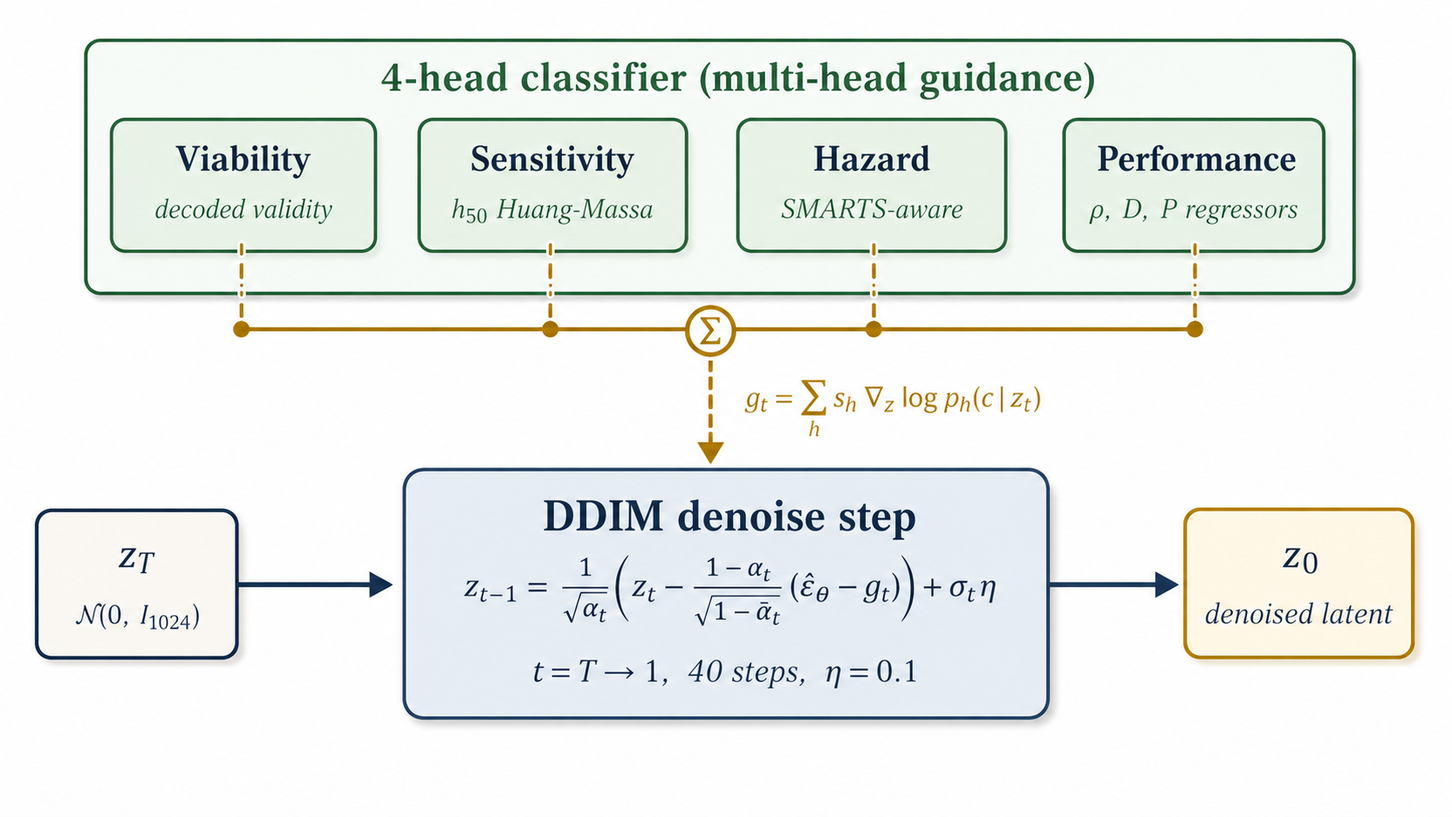
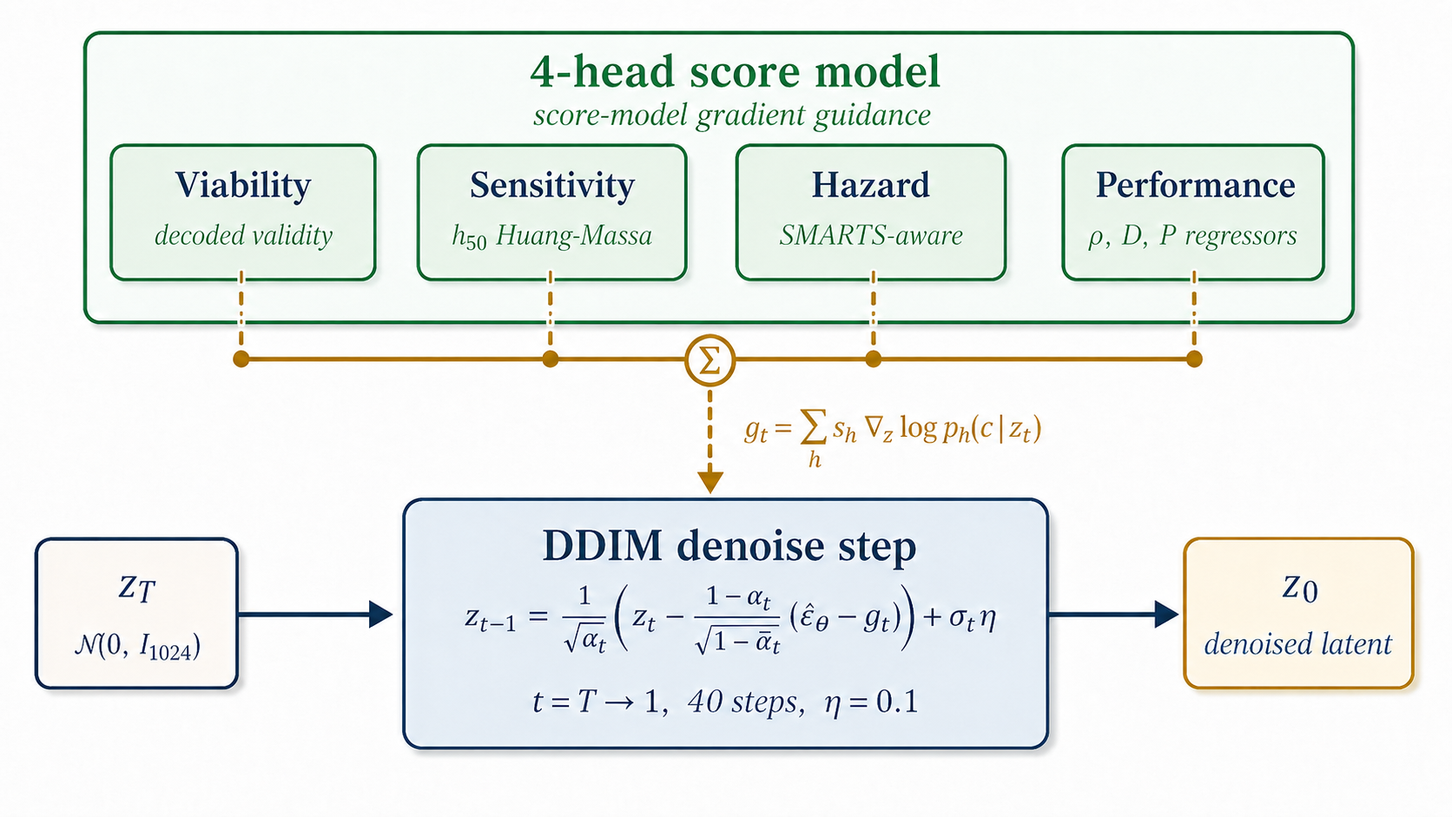
Refresh 4(c) image from updated asset; drop all em-dashes from paper
assets/4C_classifier_guide.png updated by author (md5
67c480dc101995c255966b1bf059d562, 1.4 MB); copied to docs/paper/figs/
as fig4c_sampling_guidance.png (and fig4b_sampling.png back-compat alias).
MD5 verified byte-identity.

Em-dash audit (per global writing-style rule: never use em-dashes):
- 27 occurrences of &mdash; removed across docs/paper/index.html.
- Replacement strategy:
  * 6 table cells <td>&mdash;</td> in Table D.2 anchor rows (no raw-DFT
    value) -> <td>n/a</td>.
  * 1 parenthetical em-dash pair (Fig 4(e) takeaway: "...by design,
    different inputs, architectures, and label sources, so...") -> commas.
  * 20 definition-style "Term &mdash; description" (Stage 1-4 headings
    in Pipeline-at-a-glance callout, Fig 4(e) head-source bullets,
    section explanations) -> colon ":".
- Residual check: 0 raw em-dash chars, 0 &mdash; entities, 0 &#8212; entities.

Changed region(s): [[0.0311, 0.0308, 0.933, 0.9245], [0.7153, 0.6164, 0.9952, 0.8629], [0.0, 0.6164, 0.2799, 0.8629]]

diff --git a/docs/paper/index.html b/docs/paper/index.html
@@ -209,7 +209,7 @@ Classifier-free guidance avoids the separately-trained property predictor requir
 
 <figure>
   <img src="figs/fig4a_data_prep.png" alt="DGLD LIMO VAE fine-tuning loop" loading="lazy" style="max-width:900px; width:100%; height:auto; display:block; margin:0 auto;">
-  <figcaption><strong>Figure 4(a).</strong> <em>LIMO VAE fine-tuning (run once; encoder frozen after this stage).</em> SMILES from the 326k energetic corpus are tokenised to SELFIES and pushed through a non-autoregressive VAE: the encoder produces a Gaussian posterior over a 1024-d latent \(z\); reparametrised samples \(z = \mu + \sigma\cdot\varepsilon\) feed the decoder, which predicts the SELFIES sequence in parallel. The training objective is the standard ELBO \(\mathcal{L} = \mathcal{L}_{\mathrm{recon}} + \beta\,\mathcal{L}_{\mathrm{KL}}\) with \(\beta = 0.01\) and free-bits disabled. <strong>Property labels do not enter this loss &mdash; LIMO is property-agnostic.</strong> The training corpus is sampled uniformly over its 326k SMILES at this stage; the asymmetric high-tail oversampling (Tier-A/B rows above the 90th-percentile detonation-velocity distribution oversampled 5&times;&ndash;10&times;, &sect;3.2) is applied <em>downstream</em> at denoiser training (Fig&nbsp;4(b)), not here, because LIMO's reconstruction loss has no notion of detonation velocity. After \(\sim\)8.5k steps the encoder is frozen; the cached deterministic mean \(\mu\) is the \(z_0\) consumed by 4(b) (denoiser training) and 4(e) (score-model training).</figcaption>
+  <figcaption><strong>Figure 4(a).</strong> <em>LIMO VAE fine-tuning (run once; encoder frozen after this stage).</em> SMILES from the 326k energetic corpus are tokenised to SELFIES and pushed through a non-autoregressive VAE: the encoder produces a Gaussian posterior over a 1024-d latent \(z\); reparametrised samples \(z = \mu + \sigma\cdot\varepsilon\) feed the decoder, which predicts the SELFIES sequence in parallel. The training objective is the standard ELBO \(\mathcal{L} = \mathcal{L}_{\mathrm{recon}} + \beta\,\mathcal{L}_{\mathrm{KL}}\) with \(\beta = 0.01\) and free-bits disabled. <strong>Property labels do not enter this loss: LIMO is property-agnostic.</strong> The training corpus is sampled uniformly over its 326k SMILES at this stage; the asymmetric high-tail oversampling (Tier-A/B rows above the 90th-percentile detonation-velocity distribution oversampled 5&times;&ndash;10&times;, &sect;3.2) is applied <em>downstream</em> at denoiser training (Fig&nbsp;4(b)), not here, because LIMO's reconstruction loss has no notion of detonation velocity. After \(\sim\)8.5k steps the encoder is frozen; the cached deterministic mean \(\mu\) is the \(z_0\) consumed by 4(b) (denoiser training) and 4(e) (score-model training).</figcaption>
 </figure>
 
 <figure>
@@ -229,7 +229,7 @@ Classifier-free guidance avoids the separately-trained property predictor requir
 
 <figure id="fig-4e">
   <img src="figs/fig4e_head_training.png" alt="DGLD multi-head score-model training: shared FiLM-MLP trunk, four heads" loading="lazy" style="max-width:1100px; width:100%; height:auto; display:block; margin:0 auto;">
-  <figcaption><strong>Figure 4(e).</strong> <em>Multi-head score-model training (offline, training-time).</em> The four guidance heads consumed by 4(c) at sample time are <strong>four independent models</strong>, each trained separately with its own architecture, inputs, and labels: <strong>Viability</strong> &mdash; Random Forest on Morgan FP&nbsp;+ RDKit descriptors, trained to discriminate the 66&nbsp;k labelled energetic compounds from 80&nbsp;k random ZINC samples (validation AUC&nbsp;=&nbsp;0.9986); <strong>Sensitivity</strong> (\(h_{50}\)) &mdash; MLP score model on cached LIMO latents \(z\), trained on Politzer&ndash;Murray BDE chemotype-class labels (Huang &amp; Massa <a class="cite" href="#ref-huang2021applying">[huang2021]</a>); <strong>Hazard</strong> &mdash; MLP head on \(z\), trained on chemist-curated SMARTS&nbsp;+ Bruns&ndash;Watson demerit labels; <strong>Performance</strong> &mdash; 3D-CNN smoke-model ensemble on conformer voxel grids, 8 outputs (\(\rho, D, P, T, E, V\), HOF, BDE), 5-fold CV \(R^2 = 0.84\)&ndash;\(0.92\). At sample time their gradients combine into a single guidance bus consumed by 4(c). <em><strong>Takeaway:</strong> the four heads are heterogeneous by design &mdash; different inputs, architectures, and label sources &mdash; so each axis carries an independent signal at sample-time guidance.</em></figcaption>
+  <figcaption><strong>Figure 4(e).</strong> <em>Multi-head score-model training (offline, training-time).</em> The four guidance heads consumed by 4(c) at sample time are <strong>four independent models</strong>, each trained separately with its own architecture, inputs, and labels: <strong>Viability</strong>: Random Forest on Morgan FP&nbsp;+ RDKit descriptors, trained to discriminate the 66&nbsp;k labelled energetic compounds from 80&nbsp;k random ZINC samples (validation AUC&nbsp;=&nbsp;0.9986); <strong>Sensitivity</strong> (\(h_{50}\)): MLP score model on cached LIMO latents \(z\), trained on Politzer&ndash;Murray BDE chemotype-class labels (Huang &amp; Massa <a class="cite" href="#ref-huang2021applying">[huang2021]</a>); <strong>Hazard</strong>: MLP head on \(z\), trained on chemist-curated SMARTS&nbsp;+ Bruns&ndash;Watson demerit labels; <strong>Performance</strong>: 3D-CNN smoke-model ensemble on conformer voxel grids, 8 outputs (\(\rho, D, P, T, E, V\), HOF, BDE), 5-fold CV \(R^2 = 0.84\)&ndash;\(0.92\). At sample time their gradients combine into a single guidance bus consumed by 4(c). <em><strong>Takeaway:</strong> the four heads are heterogeneous by design , different inputs, architectures, and label sources , so each axis carries an independent signal at sample-time guidance.</em></figcaption>
 </figure>
 
 <h3>4.1&nbsp;LIMO fine-tuning</h3>
@@ -284,12 +284,12 @@ where \(\epsilon_\theta^{\text{cfg}}\) is the standard classifier-free-guidance 
 
 <p><strong>Configuration caveat for small-step latent diffusion.</strong> The standard image-domain classifier-guidance recipe combines an alpha-anneal \(\text{anneal}(t)=\max(0, 1-\sigma_t/\sigma_{\max})\) with a tight per-row gradient-norm clamp at 5.0. In our small-step (\(n=40\)), frozen-decoder regime this zeros the gradient at high noise levels and silently mutes the guidance signal so completely that all per-head scale settings produce bit-identical SMILES. Disabling the anneal (\(\sigma_{\max}\!=\!0\)) restores per-head steering; raising the clamp is decorative once the anneal is off (§5.3.2). The four-test diagnostic protocol that surfaced the bug is in <a href="#sec-app">Appendix&nbsp;E.5</a>. The hard-negative augmentation recipe (918 mined cheats encoded as viab=0 latents), the literature-grounded sensitivity head (Huang &amp; Massa h<sub>50</sub>), and the optional per-head gradient-norm unit rebalancing are documented in <a href="#sec-app">Appendix&nbsp;C.1&ndash;C.3</a>.</p>
 
-<h3>4.5&nbsp;Stages 1&ndash;2 &mdash; SMARTS gate + Pareto reranker</h3>
+<h3>4.5&nbsp;Stages 1&ndash;2: SMARTS gate + Pareto reranker</h3>
 <p>Each pool is canonicalised, deduplicated, and stripped of charged species and over-large molecules. <strong>Stage&nbsp;1 (SMARTS gate):</strong> a chemist-curated SMARTS catalog removes radicals, sulphur and halogens, mixed valence states, and other red flags; surviving rows are scored by the 3D-CNN smoke ensemble (8 outputs: density, det-velocity, det-pressure, det-temperature, det-energy, det-volume, HOF, BDE). SA <a class="cite" href="#ref-ertl2009sa">[19]</a> and SCScore <a class="cite" href="#ref-coley2018scscore">[20]</a> are computed and capped at 5.0 and 3.5 respectively. <em>Caveat (drug-like provenance):</em> SA and SCScore are trained on drug-like reaction corpora (Reaxys, pharma chemistry); they penalise uncommon ring fusions and rare fragments, including some well-precedented in energetic-materials synthesis (CL-20-class polyaza-cages, hexanitrobenzene). The bias is acceptable for the present sub-CL-20 scaffold targets; an energetic-domain accessibility metric (e.g.\ a classifier trained on published energetic syntheses) would tighten the filter for more complex scaffolds. Tanimoto similarity to the nearest training-set neighbour is required to lie within \([0.20, 0.55]\): close enough to be plausible, far enough to be novel. The SMARTS gate has two interchangeable backends (Appendix E.1).</p>
 
 <p><strong>Hard filters.</strong> Single-objective composite scoring is unreliable for energetic-materials generation because the predictor can be exploited by candidates whose predicted properties exceed the training-distribution support. We therefore apply a gated, multi-objective reranker on the candidate pool before reporting leads. Hard filters reject (i) gem-tetranitro and other model-cheat SMARTS patterns, (ii) MW &lt; 130&nbsp;Da, (iii) nitro/heavy-atom ratio &gt; 0.42, (iv) oxygen balance &gt; +25&nbsp;%, (v) net non-zero charge, and (vi) ≥ 3 nitro groups on a one- or two-carbon skeleton.</p>
 
-<p><strong>Stage&nbsp;2 (Pareto reranker) &mdash; composite score.</strong> Surviving candidates are scored by
+<p><strong>Stage&nbsp;2 (Pareto reranker): composite score.</strong> Surviving candidates are scored by
 $$s(x) \;=\; \sum_{k\in\{\rho,\,\mathrm{HOF},\,D,\,P\}} \alpha_k \cdot \frac{|\hat y_k(x) - y_k^*|}{\sigma_k},$$
 where \(y_k^*\) is the design target and \(\sigma_k\) is the per-property training standard deviation. Lower is better. We additionally use a Pareto reranker multi-objective form
 $$S(x) \;=\; 0.45\, S_{\text{perf}}^{\text{band}}(x) \;+\; 0.20\, S_{\text{viab}}(x) \;+\; 0.15\, S_{\text{novel}}(x) \;+\; 0.20\,\big(1-S_{\text{sens}}(x)\big) \;-\; 0.10\, S_{\text{alerts}}(x),$$
@@ -300,7 +300,7 @@ where \(S_{\text{perf}}^{\text{band}}\) is a saturating banded ramp on each prop
 <!-- ─────────────────────────── 5. Experiments ─────────────────────────── -->
 <h2 id="sec-exp">5.&nbsp;Experiments</h2>
 
-<aside style="background:#f6f3ed; border-left:4px solid #b88a25; padding:0.7em 1em; margin:1em 0;"><strong>Pipeline at a glance.</strong> Each generated SMILES flows through a four-stage pipeline. <strong>Stage&nbsp;1 &mdash; SMARTS gate</strong> (rules-based, &sect;4.5): hard SMARTS rejects + numeric caps (SA, SC, MW, oxygen balance, charge, Tanimoto window). <strong>Stage&nbsp;2 &mdash; Pareto reranker</strong> (multi-objective composite, &sect;4.5): perf-gated, scaffold-aware composite \(S(x)\) over (perf, viab, novel, sens, alerts), Pareto front tie-broken by composite. <strong>Stage&nbsp;3 &mdash; Semi-empirical triage</strong> (xTB GFN2, &sect;5.4): geometry survival + HOMO&ndash;LUMO gap \(\ge\) 1.5&nbsp;eV. <strong>Stage&nbsp;4 &mdash; First-principles audit</strong> (DFT, &sect;5.5): B3LYP/6-31G(d) opt + \(\omega\)B97X-D3BJ/def2-TZVP SP, calibrated against the six-anchor set (RDX, TATB, HMX, PETN, FOX-7, NTO; &sect;5.5 + Appendix&nbsp;D.4). Stages 1&ndash;2 run on every candidate; Stages 3&ndash;4 run only on the merged top-100.</aside>
+<aside style="background:#f6f3ed; border-left:4px solid #b88a25; padding:0.7em 1em; margin:1em 0;"><strong>Pipeline at a glance.</strong> Each generated SMILES flows through a four-stage pipeline. <strong>Stage&nbsp;1: SMARTS gate</strong> (rules-based, &sect;4.5): hard SMARTS rejects + numeric caps (SA, SC, MW, oxygen balance, charge, Tanimoto window). <strong>Stage&nbsp;2: Pareto reranker</strong> (multi-objective composite, &sect;4.5): perf-gated, scaffold-aware composite \(S(x)\) over (perf, viab, novel, sens, alerts), Pareto front tie-broken by composite. <strong>Stage&nbsp;3: Semi-empirical triage</strong> (xTB GFN2, &sect;5.4): geometry survival + HOMO&ndash;LUMO gap \(\ge\) 1.5&nbsp;eV. <strong>Stage&nbsp;4: First-principles audit</strong> (DFT, &sect;5.5): B3LYP/6-31G(d) opt + \(\omega\)B97X-D3BJ/def2-TZVP SP, calibrated against the six-anchor set (RDX, TATB, HMX, PETN, FOX-7, NTO; &sect;5.5 + Appendix&nbsp;D.4). Stages 1&ndash;2 run on every candidate; Stages 3&ndash;4 run only on the merged top-100.</aside>
 
 <p>The experimental section answers four questions. <em>(i)&nbsp;Does the pipeline produce candidates at all?</em> §5.1&ndash;§5.2 measure the effect of pool size on yield and report the top-ranked candidates returned by the gated reranker. <em>(ii)&nbsp;Does the model generalise beyond the training distribution, and how does it compare to no-diffusion baselines?</em> §5.3 reports the novelty stratification, the four-condition guidance head-to-head, and a 3-seed head-to-head against a SMILES-LSTM and MolMIM 70M. <em>(iii)&nbsp;Are the candidates physically plausible?</em> §5.4 (semi-empirical xTB stability and pool-size dependence of the stability rate), §5.5 (first-principles audit (DFT) of the top leads with B3LYP/6-31G(d) opt and \(\omega\)B97X-D3BJ/def2-TZVP single-point), and §5.6 (retrosynthetic route search with AiZynthFinder) climb the validation ladder from heuristic filters through quantum chemistry to literature-anchored synthesis plausibility. <em>(iv)&nbsp;Do the architectural choices matter?</em> CFG-scale ablation, per-head guidance-scale grid, hard-negative augmentation of the viability head, reproducibility across pool sizes, MOSES-style distribution-learning metrics, and hazard-head post-hoc filtering are reported in Appendix&nbsp;E (E.8&ndash;E.12 plus the merged head-state grid in E.6).</p>
 
@@ -438,7 +438,7 @@ where \(S_{\text{perf}}^{\text{band}}\) is a saturating banded ramp on each prop
 
 <p><strong>Reproducibility across pool sizes.</strong> Top-1 composite at small pool size is sampling-noise-dominated; the recommended robust production recipe (moderate guidance, pool \(\ge\) 40&nbsp;000, Pareto reranker (scaffold-aware composite) as ranker, SA-gradient as a complementary run) is documented in §4.5, and the per-pool reproducibility numbers and Fig&nbsp;14 composite-score distribution are in <a href="#sec-app">Appendix&nbsp;E.10</a>.</p>
 
-<h3>5.4&nbsp;Stage&nbsp;3 &mdash; Semi-empirical triage (xTB GFN2)</h3>
+<h3>5.4&nbsp;Stage&nbsp;3: Semi-empirical triage (xTB GFN2)</h3>
 
 <p>To verify that the top candidates are not pure model-cheats, we ran a quick semi-empirical stability check on the gated top-8 from the production run: RDKit ETKDGv3 conformer + MMFF94 minimisation, then xTB <a href="https://github.com/grimme-lab/xtb">[xtb-6.6.1]</a> at GFN2-xTB level with <code>--opt tight</code>. Two signals are reported: the xTB optimisation converged or not (if not, the molecule is unphysical and should be discarded); and the HOMO-LUMO gap, which acts as a soft electronic-stability proxy: energetic compounds with gaps below \(\sim\)1.5&nbsp;eV are typically open-shell-like, sensitive to perturbation, and at high risk of decomposition under stress. Sensitivity is ultimately a product of weakest-bond chemistry and crystal packing as much as electronic structure <a class="cite" href="#ref-mathieu2017sensitivity">[11a]</a>, so we treat the gap as a triage signal, not a final verdict.</p>
 
@@ -466,7 +466,7 @@ where \(S_{\text{perf}}^{\text{band}}\) is a saturating banded ramp on each prop
 <p>A vertical strip of the top-N gap-gate verdicts with 2D depictions is in Fig&nbsp;12.</p>
 <p><strong>Pool-size dependence of stability rate.</strong> Repeating the xTB triage on the gated top-15 of an unguided pool=80&nbsp;000 run (using the Pareto reranker (scaffold-aware composite) for ranking), <strong>13 of the 15</strong> survived the 1.5&nbsp;eV HOMO-LUMO gap gate; the two electronically-marginal candidates were a strained bicyclic-tetra-nitro-nitramine (gap 1.45&nbsp;eV) and an open-chain hydrazone-imine chain (gap 1.43&nbsp;eV). Compared to the 6/8 result on the gated top-8, the larger unguided pool achieves a substantially higher physical-stability rate. The interpretation is that classifier guidance can drive the sampler into a mode where individual top-of-funnel candidates score high in our learned proxies but fail at the level of frontier-orbital electronic stability, whereas a larger unguided pool with the same gating layer applied post-hoc produces a less aggressive but more physically-credible final set.</p>
 
-<h3>5.5&nbsp;Stage&nbsp;4 &mdash; First-principles audit (DFT) of top leads</h3>
+<h3>5.5&nbsp;Stage&nbsp;4: First-principles audit (DFT) of top leads</h3>
 
 <p>To address the layered-surrogate concern (3D-CNN \(\to\) multi-head score model \(\to\) xTB triage), we ran first-principles audit (DFT) on the top leads alongside two anchor compounds (RDX, TATB) using GPU4PySCF (B3LYP/6-31G(d) geometry + analytical Hessian \(\to\) \(\omega\)B97X-D3BJ/def2-TZVP single-point \(\to\) atomization-energy HOF; density from Bondi van-der-Waals integration with packing 0.69). <strong>All twelve chem-pass leads + the two anchors are real local minima</strong> (no imaginary frequencies; min real modes 9&ndash;52&nbsp;cm<sup>&minus;1</sup>); three additional reference-class scaffolds (R2, R3, R14) flagged by the strengthened SMARTS SMARTS gate were also optimised and are reported separately in Appendix&nbsp;D.5. A linear six-anchor (RDX, TATB, HMX, PETN, FOX-7, NTO) calibration, \(\rho_{\text{cal}} = 1.392\cdot\rho_{\text{DFT}} - 0.415\) and HOF\(_{\text{cal}}\) = HOF\(_{\text{DFT}} - 206.7\)&nbsp;kJ/mol (anchor-fit values from <code>m2_calibration_6anchor.json</code>; the four added anchors HMX/PETN/FOX-7/NTO were computed on two independent vast.ai pods, RTX 4090 + A100 PCIE, with cross-pod consistency \(\Delta\rho \le 0.0002\)&nbsp;g/cm<sup>3</sup> and \(\Delta\)HOF\(\,=\,0.0\)&nbsp;kJ/mol on every anchor), brings the calibrated densities of the 12 chem-pass leads into \(\rho_{\text{cal}} \in [1.84, 2.09]\)&nbsp;g/cm<sup>3</sup> and calibrated HOFs into \([-373, +330]\)&nbsp;kJ/mol; a leave-one-out check on the 6-anchor fit gives \(\pm 0.078\)&nbsp;g/cm<sup>3</sup> on calibrated \(\rho\) and \(\pm 64.6\)&nbsp;kJ/mol on calibrated HOF. The calibration intercept of \(-206.7\)&nbsp;kJ/mol sits well within the GMTKN55 wB97X-D systematic atomization-energy band for CHNO at 0&nbsp;K without thermal corrections (Goerigk et&nbsp;al., 2017). The density slope of \(1.392\) lands in the physically expected \([1.0, 2.0]\) range for the Bondi van-der-Waals volume estimator with a single packing coefficient (0.69) under DFT-optimised geometry. An EXPLO5 / Cheetah-2 recompute on the calibrated DFT inputs is the clean future-work path for absolute \(D\) values; the calibration here is ranking-grade. L1 (trinitro-isoxazole) raw DFT \(\rho_{\text{DFT}}=1.80\)&nbsp;g/cm<sup>3</sup> calibrates to \(\rho_{\text{cal}}=2.09\) (the highest of the set, in the CL-20 band but not above it); its raw HOF\(_{\text{DFT}}=+229.5\)&nbsp;kJ/mol calibrates to \(+22.9\)&nbsp;kJ/mol (functional and basis-set choices in Appendix&nbsp;D.1, thermal-correction handling in Appendix&nbsp;D.2, calibration extension in Appendix&nbsp;D.3&ndash;D.4).</p>
 
@@ -567,7 +567,7 @@ where \(S_{\text{perf}}^{\text{band}}\) is a saturating banded ramp on each prop
 <tr><td>E6</td><td>1.576</td><td>1.779</td><td>123.5</td><td>&minus;83.2</td><td>6.58</td><td>19.1</td><td>38.3</td></tr>
 <tr><td>E7</td><td>1.584</td><td>1.790</td><td>235.5</td><td>28.8</td><td>6.74</td><td>20.1</td><td>24.8</td></tr>
 <tr><td>E8</td><td>1.580</td><td>1.784</td><td>171.0</td><td>&minus;35.7</td><td>6.73</td><td>20.0</td><td>44.1</td></tr>
-<tr><td>E9</td><td>1.453</td><td>1.608</td><td>506.9</td><td>300.2</td><td>&mdash;</td><td>&mdash;</td><td>53.8</td></tr>
+<tr><td>E9</td><td>1.453</td><td>1.608</td><td>506.9</td><td>300.2</td><td>n/a</td><td>n/a</td><td>53.8</td></tr>
 <tr><td>E10</td><td>1.483</td><td>1.649</td><td>249.1</td><td>42.5</td><td>5.52</td><td>12.8</td><td>53.8</td></tr>
 </tbody>
 </table>
@@ -579,11 +579,11 @@ where \(S_{\text{perf}}^{\text{band}}\) is a saturating banded ramp on each prop
 </ol>
 <p>Either reading is a substantive addition. To disambiguate we recommend an EXPLO5 or Cheetah-2 thermochemical-equilibrium recompute on the E1 calibrated &rho;-HOF inputs, plus an extension of the 6-anchor calibration with a furazan-class anchor (DAAF or 3,4-bis-(4'-nitrofurazan-3'-yl)furoxan) for which experimental &rho; and D are tabulated; both are scoped as future work in §7.</p>
 
-<p><strong>Stage-4 rescue: E9 as a positive example.</strong> E9 (<code>n1n[nH][nH]1</code>, bare 1H-tetrazole) is included in the table as a deliberate negative-control row. It carries no nitro group and is therefore a pure-fuel under the standard K-J product distribution; the K-J equation returns N=NaN at this composition and the Stages&nbsp;1&ndash;2 surrogate-and-reranker does not flag it (the model was trained to push the &rho;-HOF target, not to enforce nitro-presence). Stage 4 (DFT + K-J recomputed on the calibrated &rho;-HOF pair) catches it: D and P are explicitly <em>not reported</em> for E9 because K-J is undefined at oxygen balance &lt; &minus;200%. We treat this as a positive example of why the four-stage validation chain is necessary &mdash; cheap upstream filters do not catch a model-cheat that downstream first-principles thermochemistry catches by construction.</p>
+<p><strong>Stage-4 rescue: E9 as a positive example.</strong> E9 (<code>n1n[nH][nH]1</code>, bare 1H-tetrazole) is included in the table as a deliberate negative-control row. It carries no nitro group and is therefore a pure-fuel under the standard K-J product distribution; the K-J equation returns N=NaN at this composition and the Stages&nbsp;1&ndash;2 surrogate-and-reranker does not flag it (the model was trained to push the &rho;-HOF target, not to enforce nitro-presence). Stage 4 (DFT + K-J recomputed on the calibrated &rho;-HOF pair) catches it: D and P are explicitly <em>not reported</em> for E9 because K-J is undefined at oxygen balance &lt; &minus;200%. We treat this as a positive example of why the four-stage validation chain is necessary: cheap upstream filters do not catch a model-cheat that downstream first-principles thermochemistry catches by construction.</p>
 
-<p><strong>E2 SMARTS audit.</strong> E2 carries 3 nitro groups (gem-dinitro on a single C plus an adjacent N-NO<sub>2</sub> nitramine) and is the candidate the §4.5 hard rule "&ge;3 nitro groups on a 1- or 2-carbon skeleton" should reject. Audit (full note in <code>m2_bundle/E2_SMARTS_AUDIT.md</code>): the production reranker filter <code>chem_redflags.screen()</code> <em>does</em> reject E2 via its <code>nC&le;2 and n_NO2&ge;3</code> hard rule (rule fires on E2 with nC=1, nNO2=3); the lighter <code>chem_filter.chem_filter_batch()</code> used by the E-set <em>mining</em> script does not. This is a Stage-1-vs-Stage-2 filter scope mismatch &mdash; the production filter that gates the L-set headline catches E2; the looser distributional-mining filter that produces the E-set retains it for inspection. The intended framing is that the E-set is a deliberately wider window than the L-set, and E2 is exactly the kind of candidate the wider window is designed to surface.</p>
+<p><strong>E2 SMARTS audit.</strong> E2 carries 3 nitro groups (gem-dinitro on a single C plus an adjacent N-NO<sub>2</sub> nitramine) and is the candidate the §4.5 hard rule "&ge;3 nitro groups on a 1- or 2-carbon skeleton" should reject. Audit (full note in <code>m2_bundle/E2_SMARTS_AUDIT.md</code>): the production reranker filter <code>chem_redflags.screen()</code> <em>does</em> reject E2 via its <code>nC&le;2 and n_NO2&ge;3</code> hard rule (rule fires on E2 with nC=1, nNO2=3); the lighter <code>chem_filter.chem_filter_batch()</code> used by the E-set <em>mining</em> script does not. This is a Stage-1-vs-Stage-2 filter scope mismatch: the production filter that gates the L-set headline catches E2; the looser distributional-mining filter that produces the E-set retains it for inspection. The intended framing is that the E-set is a deliberately wider window than the L-set, and E2 is exactly the kind of candidate the wider window is designed to surface.</p>
 
-<p><strong>Reading the table.</strong> Of the 10 E-set candidates, <strong>4 of 9</strong> with a defined K-J recompute clear D<sub>K-J,cal</sub>&nbsp;&ge;&nbsp;7.0&nbsp;km/s under the 6-anchor calibration (E1, E2, E3, E4); E5/E7 sit at 7.0&plusmn;0.3&nbsp;km/s; <strong>8 of 9</strong> have h50<sub>BDE</sub>&nbsp;&ge;&nbsp;30&nbsp;cm (sensitive but not extreme); and the 10 picks span 8 distinct Bemis-Murcko scaffolds across the six chemotype families enumerated above. Following the §5.6 audit, USPTO-template AiZynth retrosynthesis is omitted at the E-set scale: the 1/12 hit rate documented in Table&nbsp;7 confirms templates are out-of-domain for energetic chemistry, and re-running the search at the E-set scale would be uninformative. The combined message is that the L-set sits at the upper edge of a credible distribution of candidates rather than at an isolated outlier &mdash; DGLD finds a population of energetic chemotypes, of which L1 and E1 are two HMX-class headline picks from chemically distinct families.</p>
+<p><strong>Reading the table.</strong> Of the 10 E-set candidates, <strong>4 of 9</strong> with a defined K-J recompute clear D<sub>K-J,cal</sub>&nbsp;&ge;&nbsp;7.0&nbsp;km/s under the 6-anchor calibration (E1, E2, E3, E4); E5/E7 sit at 7.0&plusmn;0.3&nbsp;km/s; <strong>8 of 9</strong> have h50<sub>BDE</sub>&nbsp;&ge;&nbsp;30&nbsp;cm (sensitive but not extreme); and the 10 picks span 8 distinct Bemis-Murcko scaffolds across the six chemotype families enumerated above. Following the §5.6 audit, USPTO-template AiZynth retrosynthesis is omitted at the E-set scale: the 1/12 hit rate documented in Table&nbsp;7 confirms templates are out-of-domain for energetic chemistry, and re-running the search at the E-set scale would be uninformative. The combined message is that the L-set sits at the upper edge of a credible distribution of candidates rather than at an isolated outlier: DGLD finds a population of energetic chemotypes, of which L1 and E1 are two HMX-class headline picks from chemically distinct families.</p>
 
 <!-- ─────────────────────────── 6. Summary of results ─────────────────────────── -->
 <h2 id="sec-results-summary">6.&nbsp;Summary of results</h2>
@@ -718,7 +718,7 @@ where \(S_{\text{perf}}^{\text{band}}\) is a saturating banded ramp on each prop
     <tr><td>Code</td><td><code>combo_bundle/train_multihead_latent.py</code> (MultiHeadScoreModel)</td></tr>
 
     <tr><td rowspan="6">Random-Forest viability classifier (training-label source)</td><td>Algorithm</td><td>scikit-learn RandomForestClassifier (CPU)</td></tr>
-    <tr><td>n_estimators / max_depth / min_samples_leaf</td><td>200 / 22 / 4 (v2-hardneg; v1 uses CLI flags &mdash; see code)</td></tr>
+    <tr><td>n_estimators / max_depth / min_samples_leaf</td><td>200 / 22 / 4 (v2-hardneg; v1 uses CLI flags: see code)</td></tr>
     <tr><td>Class weight / random_state</td><td>balanced / 42</td></tr>
     <tr><td>Feature dim</td><td>~2089 = 2048 Morgan FP (radius 2) + 10 RDKit descriptors + 11 derived CHNO/OB features</td></tr>
     <tr><td>Training data</td><td>66&nbsp;k labelled energetics positives vs 80&nbsp;k ZINC-250k random negatives + mined hard negatives (&sect;C.1)</td></tr>
@@ -836,12 +836,12 @@ where \(S_{\text{perf}}^{\text{band}}\) is a saturating banded ramp on each prop
     <tr><td>L18 vinyl azo-amino nitrate</td><td>D=9.00, &rho;=1.89</td><td>D=6.21, P=16.0</td><td>D=7.09, P=22.6</td><td>&minus;1.91 km/s</td></tr>
     <tr><td>L19 acyl C-OH nitramine</td><td>D=9.14, &rho;=1.88</td><td>D=7.24, P=22.2</td><td>D=7.24, P=24.1</td><td>&minus;1.90 km/s</td></tr>
     <tr><td>L20 \(\alpha\)-NO<sub>2</sub> acyl-N-nitramine</td><td>D=9.12, &rho;=1.91</td><td>D=6.40, P=17.7</td><td>D=7.41, P=25.8</td><td>&minus;1.71 km/s</td></tr>
-    <tr><td><strong>RDX</strong> (anchor)</td><td>D=8.75 (exp)</td><td>&mdash;</td><td>D=7.43, P=25.0</td><td>&minus;1.32 km/s (vs exp)</td></tr>
-    <tr><td><strong>TATB</strong> (anchor)</td><td>D=7.90 (exp)</td><td>&mdash;</td><td>D=6.93, P=22.0</td><td>&minus;0.97 km/s (vs exp)</td></tr>
-    <tr><td><strong>HMX</strong> (anchor)</td><td>D=9.10 (exp)</td><td>&mdash;</td><td>D=7.52, P=26.2</td><td>&minus;1.58 km/s (vs exp)</td></tr>
-    <tr><td><strong>PETN</strong> (anchor)</td><td>D=8.30 (exp)</td><td>&mdash;</td><td>D=8.24, P=30.6</td><td>&minus;0.06 km/s (vs exp)</td></tr>
-    <tr><td><strong>FOX-7</strong> (anchor)</td><td>D=8.87 (exp)</td><td>&mdash;</td><td>D=7.70, P=26.5</td><td>&minus;1.17 km/s (vs exp)</td></tr>
-    <tr><td><strong>NTO</strong> (anchor)</td><td>D=7.93 (exp)</td><td>&mdash;</td><td>D=7.49, P=25.6</td><td>&minus;0.44 km/s (vs exp)</td></tr>
+    <tr><td><strong>RDX</strong> (anchor)</td><td>D=8.75 (exp)</td><td>n/a</td><td>D=7.43, P=25.0</td><td>&minus;1.32 km/s (vs exp)</td></tr>
+    <tr><td><strong>TATB</strong> (anchor)</td><td>D=7.90 (exp)</td><td>n/a</td><td>D=6.93, P=22.0</td><td>&minus;0.97 km/s (vs exp)</td></tr>
+    <tr><td><strong>HMX</strong> (anchor)</td><td>D=9.10 (exp)</td><td>n/a</td><td>D=7.52, P=26.2</td><td>&minus;1.58 km/s (vs exp)</td></tr>
+    <tr><td><strong>PETN</strong> (anchor)</td><td>D=8.30 (exp)</td><td>n/a</td><td>D=8.24, P=30.6</td><td>&minus;0.06 km/s (vs exp)</td></tr>
+    <tr><td><strong>FOX-7</strong> (anchor)</td><td>D=8.87 (exp)</td><td>n/a</td><td>D=7.70, P=26.5</td><td>&minus;1.17 km/s (vs exp)</td></tr>
+    <tr><td><strong>NTO</strong> (anchor)</td><td>D=7.93 (exp)</td><td>n/a</td><td>D=7.49, P=25.6</td><td>&minus;0.44 km/s (vs exp)</td></tr>
   </tbody>
 </table>
 <p><strong>Reading Table D.2.</strong> The six anchor rows define the K-J under-prediction band on the same recipe: K-J\(_{\text{cal}}\) lands \(0.06\) to \(1.58\)&nbsp;km/s below experiment, with a mean of \(-0.92\)&nbsp;km/s. Lead residuals against the 3D-CNN surrogate (\(-1.18\) to \(-2.27\)&nbsp;km/s, mean \(-1.66\)&nbsp;km/s) sit comfortably inside this anchor-defined band, and the \(-1.31\)&nbsp;km/s residual on L1 is one of the smallest in the lead set, consistent with L1's HMX-class regime placement.</p>
